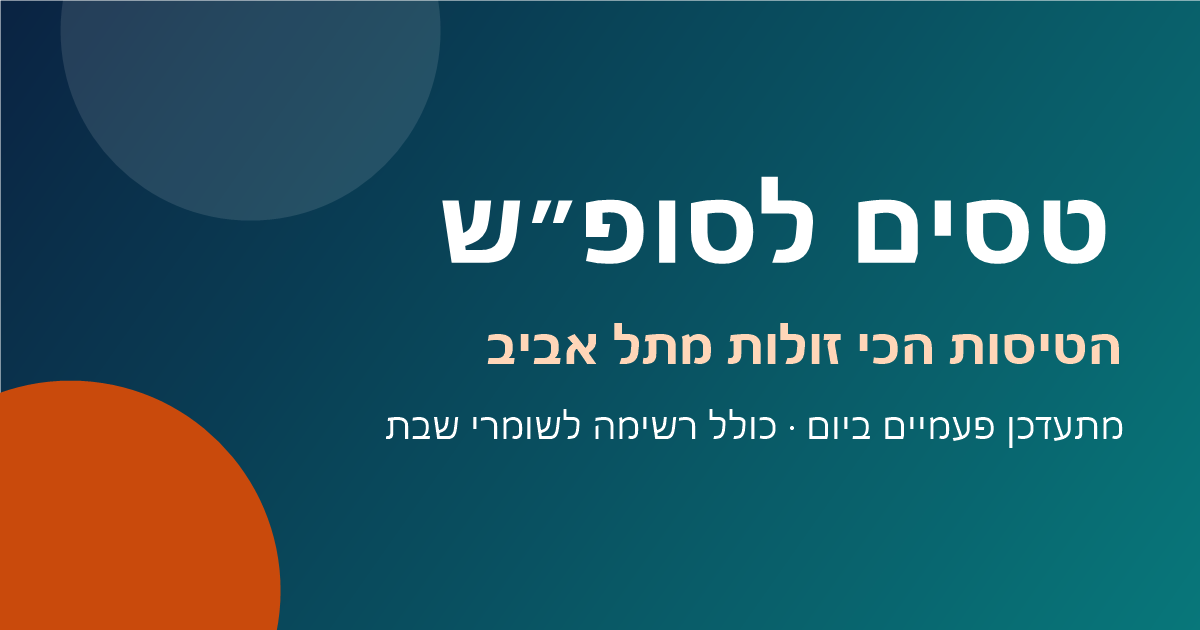
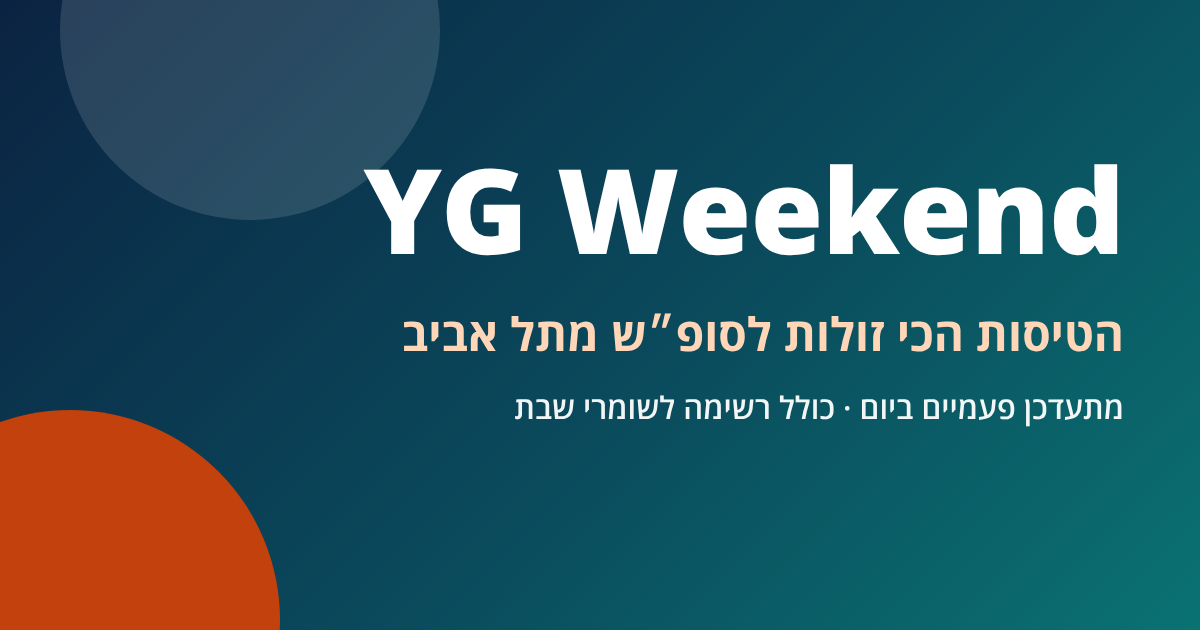
Add files via upload

diff --git a/site/index.html b/site/index.html
@@ -3,22 +3,22 @@
 <head>
 <meta charset="utf-8">
 <meta name="viewport" content="width=device-width, initial-scale=1">
-<title>טיסות לסופ"ש מתל אביב</title>
+<title>YG Weekend · טיסות זולות לסופ"ש מתל אביב</title>
 <meta name="description" content="הטיסות הכי זולות לסופ״ש מתל אביב, מתעדכן פעמיים ביום. כולל רשימה מיוחדת לשומרי שבת עם זמני כניסת ויציאת שבת ביעד.">
 <link rel="canonical" href="https://yg-weekend.github.io/">
 <link rel="icon" href="favicon.svg" type="image/svg+xml">
 <meta name="theme-color" content="#0a2342">
 <meta property="og:type" content="website">
 <meta property="og:locale" content="he_IL">
-<meta property="og:site_name" content="טסים לסופ״ש">
-<meta property="og:title" content="טסים לסופ״ש: הטיסות הכי זולות מתל אביב">
+<meta property="og:site_name" content="YG Weekend">
+<meta property="og:title" content="YG Weekend: הטיסות הכי זולות לסופ״ש מתל אביב">
 <meta property="og:description" content="דילים לסופ״ש הקרוב ולשבועות הבאים, מתעדכן פעמיים ביום. כולל רשימה לשומרי שבת.">
 <meta property="og:url" content="https://yg-weekend.github.io/">
 <meta property="og:image" content="https://yg-weekend.github.io/og.png">
 <meta property="og:image:width" content="1200">
 <meta property="og:image:height" content="630">
 <meta name="twitter:card" content="summary_large_image">
-<script type="application/ld+json">{"@context":"https://schema.org","@type":"WebSite","name":"טסים לסופ״ש","url":"https://yg-weekend.github.io/","inLanguage":"he","description":"הטיסות הכי זולות לסופ״ש מתל אביב, כולל רשימה לשומרי שבת."}</script>
+<script type="application/ld+json">{"@context":"https://schema.org","@type":"WebSite","name":"YG Weekend","url":"https://yg-weekend.github.io/","inLanguage":"he","description":"הטיסות הכי זולות לסופ״ש מתל אביב, כולל רשימה לשומרי שבת."}</script>
 <!-- Travelpayouts Drive -->
 <script nowprocket data-noptimize="1" data-cfasync="false" data-wpfc-render="false" seraph-accel-crit="1" data-no-defer="1" data-cmp-ab="2">
   (function () {
@@ -68,9 +68,10 @@
   .cover .lede { margin: 0 0 18px; font-size: 16.5px; font-weight: 600; opacity: .92; max-width: 560px; }
   .brand { position: absolute; top: 16px; right: 20px; left: 20px; max-width: 1040px; margin: 0 auto; z-index: 1;
            display: flex; justify-content: space-between; align-items: center; font-weight: 700; }
-  .brand .logo { display: inline-flex; align-items: center; gap: 9px; font-family: var(--display); font-size: 20px; }
+  .brand .logo { white-space: nowrap; display: inline-flex; align-items: center; gap: 9px; font-family: var(--display); font-size: 20px; }
   .brand .logo svg { width: 30px; height: 30px; flex: none; }
-  .brand .when { font-size: 13.5px; opacity: .85; font-weight: 600; }
+  .brand .when { font-size: 13.5px; opacity: .85; font-weight: 600; text-align: left; }
+  @media (max-width: 480px) { .brand .when .wk-n { display: none; } }
   /* ארבע משבצות: הזול ביותר לכל סופ"ש */
   .wk-tiles { display: grid; grid-template-columns: repeat(4, 1fr); gap: 12px; }
   .wk-tile { position: relative; aspect-ratio: 4 / 5; border-radius: 12px; overflow: hidden; background-size: cover; }
@@ -199,7 +200,7 @@
 <section class="cover" id="cover" aria-label="הזול ביותר לכל סופ״ש">
   <div class="sky" role="img" aria-label="זריחה מעל העננים מחלון מטוס"></div>
   <a class="sky-credit" href="https://commons.wikimedia.org/wiki/File:Flying_through_the_sunrise_-_Flickr_-_Lenny_K_Photography.jpg" target="_blank" rel="noopener">צילום רקע: Lenny K Photography, CC BY 2.0</a>
-  <div class="brand"><span class="logo"><svg viewBox="0 0 64 64" aria-hidden="true"><rect width="64" height="64" rx="14" fill="#c2410c"/><path fill="#fff" d="M54 12c-3-3-8-2-11 1l-8 8-22-6-4 4 18 10-8 9-7-1-3 3 9 4 4 9 3-3-1-7 9-8 10 18 4-4-6-22 8-8c3-3 4-8 1-11z"/></svg>טסים לסופ״ש</span><span class="when" id="when"></span></div>
+  <div class="brand"><span class="logo"><svg viewBox="0 0 64 64" aria-hidden="true"><rect width="64" height="64" rx="14" fill="#c2410c"/><path fill="#fff" d="M54 12c-3-3-8-2-11 1l-8 8-22-6-4 4 18 10-8 9-7-1-3 3 9 4 4 9 3-3-1-7 9-8 10 18 4-4-6-22 8-8c3-3 4-8 1-11z"/></svg><span dir="ltr">YG Weekend</span></span><span class="when" id="when"></span></div>
   <div class="in" id="coverIn"></div>
 </section>
 
@@ -497,10 +498,20 @@ function render() {
   const dr = $("#direct"); if (dr) { dr.classList.toggle("on", state.direct); dr.setAttribute("aria-pressed", state.direct); }
 }
 
+// "עודכן היום ב-07:57" / "עודכן אתמול ב-16:05" / "עודכן 22/11 ב-07:57", לפי שעון ישראל
+function updatedText(gen) {
+  const tz = "Asia/Jerusalem";
+  const day = (t) => t.toLocaleDateString("en-CA", {timeZone: tz});
+  const time = gen.toLocaleTimeString("he-IL", {timeZone: tz, hour: "2-digit", minute: "2-digit", hour12: false});
+  const now = new Date(), y = new Date(now.getTime() - 864e5);
+  const d = day(gen) === day(now) ? "היום" : day(gen) === day(y) ? "אתמול" : gen.toLocaleDateString("he-IL", {timeZone: tz, day: "numeric", month: "numeric"});
+  return `עודכן ${d} ב-${time}`;
+}
+
 function init(data) {
   state.data = data;
   const gen = new Date(data.generated_at);
-  $("#when").textContent = `עודכן ${gen.toLocaleDateString("he-IL", {day: "numeric", month: "numeric"})} · ${data.weekends.length} סופ"שים קדימה`;
+  $("#when").innerHTML = `${updatedText(gen)}<span class="wk-n"> · ${data.weekends.length} סופ"שים קדימה</span>`;
   $("#demo").hidden = !data.demo;
   $("#chips").innerHTML = [`<button class="chip on" data-max="">כל המחירים</button>`]
     .concat(data.price_filters.map(p => `<button class="chip" data-max="${p}">עד ${nis(p)}</button>`))
